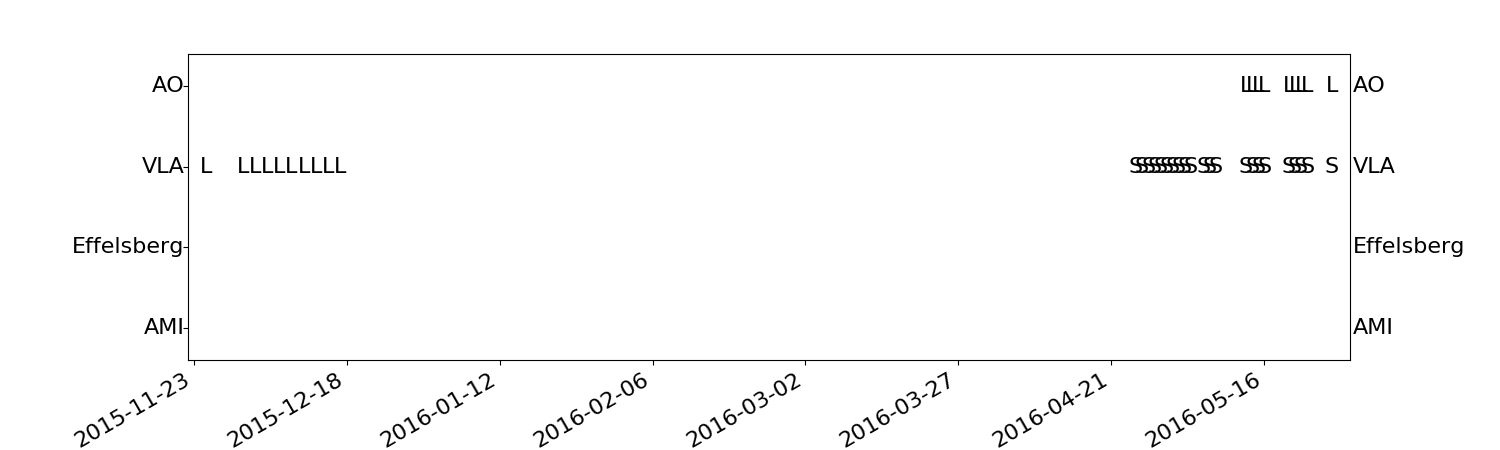
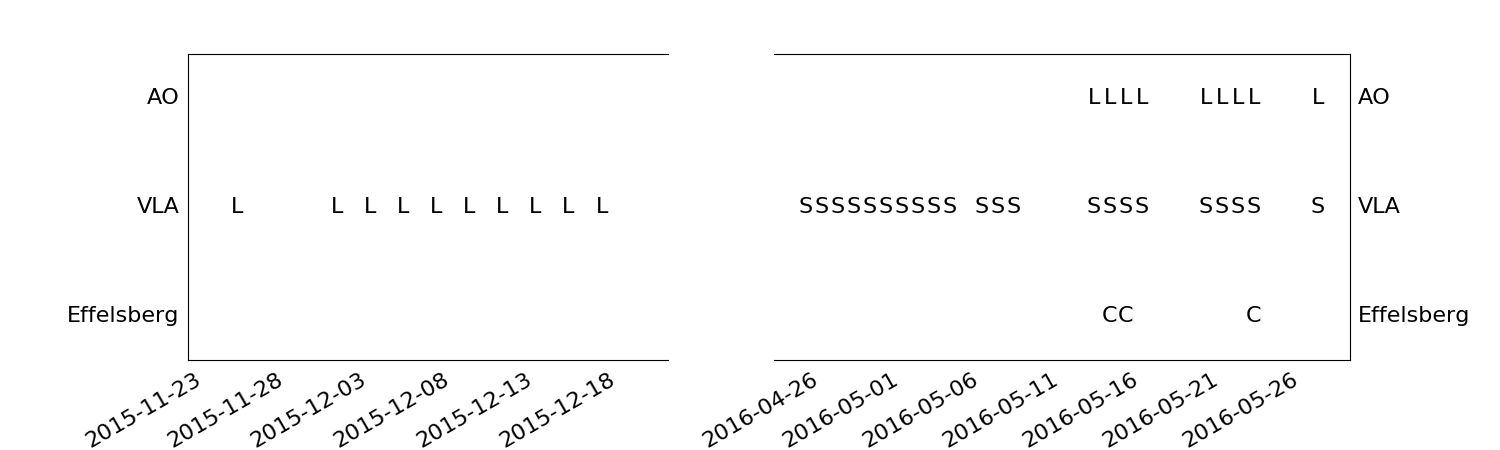
split 2015 plot in two. added some eff coverage

diff --git a/timeline.py b/timeline.py
@@ -30,6 +30,9 @@ psym = dict(zip(telescopes, psyms))
 pcols = ['g','r','b','y']
 pcol = dict(zip(telescopes, pcols))
 
+if obsdate[0].year == 2015:
+    telescopes = telescopes[:-1]
+
 # set font properties
 rc('font', family='sans-serif')
 rc('font', serif='Times New Roman')
@@ -60,44 +63,82 @@ def d2n(yyyy, mm, dd):
 def labeltelleft(ax, num):
 	for teln in telescopes:
 		yval = offset[teln]
-		xval = xl - 0.5
-		ax.text(xval, yval, teln, horizontalalignment='right', verticalalignment='center')
+		xval = xl[num] - 0.5
+   		ax.text(xval, yval, teln, horizontalalignment='right', verticalalignment='center')
 
 def labeltelright(ax, num):
 	for teln in telescopes:
 		yval = offset[teln]
-		xval = xr + 0.5
-		ax.text(xval, yval, teln, horizontalalignment='left', verticalalignment='center')
+		xval = xr[num] + 0.5
+   		ax.text(xval, yval, teln, horizontalalignment='left', verticalalignment='center')
 
 if obsdate[0].year == 2016:
-    xl = d2n(2016, 8, 19)
-    xr = d2n(2016, 9, 23)
+    xl = [d2n(2016, 8, 22)]
+    xr = [d2n(2016, 9, 23)]
 else:
-    xl = d2n(2015, 11, 22)
-    xr = d2n(2016, 5, 30)
+    xl = [d2n(2015, 11, 22), d2n(2016, 4, 23)]
+    xr = [d2n(2015, 12, 21), d2n(2016, 5, 29)]
 
-fig, ax = subplots(1, 1, figsize=(15, 4.5))
-for i in range(len(obsdate)):
+if obsdate[0].year == 2016:
+    fig, ax = subplots(1, 1, figsize=(15, 4.5))
+    for i in range(len(obsdate)):
 	putdot(ax, i)
-ax.set_xlim( (xl, xr) )
-ax.set_ylim( (-0.4, 3.4) )
-ax.tick_params(labelright='off', labelleft='off')
-ax.xaxis.set_major_formatter(DateFormatter('%Y-%m-%d'))
-ax.fmt_xdata = DateFormatter('%Y-%m-%d %H:%M:%S')
+    axs = [ax]
+else:
+    fig, ax = subplots(1, 1, figsize=(15, 4.5))
+    gs = GridSpec(1, 2, width_ratios=[1,1.2])
+    axs = [subplot(gs[0]), subplot(gs[1])]
+    for i in range(len(obsdate)):
+        if obsdate[i].year == 2015:        
+            ax = axs[0]
+        else:
+            ax = axs[1]
+        putdot(ax, i)
+
+for ax in axs:
+    ax.tick_params(labelright='off', labelleft='off')
+    ax.xaxis.set_major_formatter(DateFormatter('%Y-%m-%d'))
+    ax.fmt_xdata = DateFormatter('%Y-%m-%d %H:%M:%S')
+
+    if obsdate[0].year == 2016:
+        ax.set_ylim( (-0.4, 3.4) )
+        ax.set_xlim( (xl[0], xr[0]) )
+    else:
+        ax.set_ylim( (0.6, 3.4) )
+        i = axs.index(ax)
+        ax.set_xlim( (xl[i], xr[i]) )
 
 # boxes for simultaneous coverage of VLA bursts
-if obsdate[0].year == 2016:
-	axhspan(0.1, 2.9, 0.6855, 0.6855, fill=False, linestyle='dashed') # 57643
-	axhspan(0.1, 2.9, 0.743, 0.743, fill=False, linestyle='dashed') # 57645
-	axhspan(0.1, 2.9, 0.8285, 0.8285, fill=False, linestyle='dashed') # 57648 57649
-	axhspan(2.1, 2.9, 0.8285, 0.8285, fill=False, lw=3, linestyle='solid') # 57648 57649
-	axhspan(0.1, 2.9, 0.857, 0.857, fill=False, linestyle='dashed') # 57648 57649
+for ax in axs:
+    if obsdate[0].year == 2016:
+        axhspan(0.1, 2.9, 0.657, 0.657, fill=False, linestyle='dashed') # 57643
+        axhspan(0.1, 2.9, 0.718, 0.718, fill=False, linestyle='dashed') # 57645
+        axhspan(0.1, 2.9, 0.813, 0.813, fill=False, linestyle='dashed') # 57648 57649
+        axhspan(2.1, 2.9, 0.813, 0.813, fill=False, lw=3, linestyle='solid') # 57648 57649
+        axhspan(0.1, 2.9, 0.844, 0.844, fill=False, linestyle='dashed') # 57648 57649
+        ax.set_yticks( [0, 1, 2, 3] )
+    else:
+#    	axhspan(1.1, 2.9, 0.657, 0.657, fill=False, linestyle='dashed') # 57643
+#	    axhspan(1.1, 2.9, 0.718, 0.718, fill=False, linestyle='dashed') # 57645
+        ax.set_yticks( [1, 2, 3] )
 
-ax.set_yticks( [0, 1, 2, 3] )
-#ax0.spines['left'].set_visible(True)
-labeltelleft(ax, 0)
-labeltelright(ax, 0)
+
+for ax in axs:
+    ax.tick_params(labelright='off', labelleft='off', width=0)
+    i = axs.index(ax)
+    if obsdate[0].year == 2016:
+        labeltelleft(ax, i)
+        labeltelright(ax, i)
+    else:
+        if i == 0:
+            labeltelleft(ax, i)
+            ax.spines['right'].set_visible(False)
+        elif i == 1:
+            labeltelright(ax, i)
+            ax.spines['left'].set_visible(False)
+
 fig.autofmt_xdate()
 
 #show()
-savefig('timeline.png')
+pngsuff = '0' if '0' in sys.argv[1] else ''
+savefig('timeline{0}.png'.format(pngsuff))
